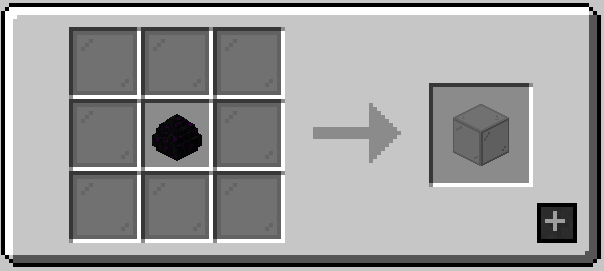
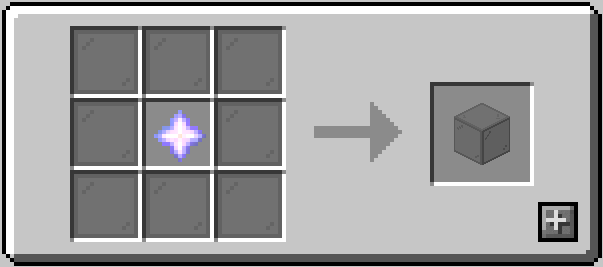
Dragon Egg replaced with Nether Star - Done to make entry point more accessible on servers without repeatable dragon eggs

diff --git a/src/main/java/io/github/sefiraat/danktech/finals/Recipes.java b/src/main/java/io/github/sefiraat/danktech/finals/Recipes.java
@@ -101,7 +101,7 @@ public final class Recipes {
         ShapedRecipe r = new ShapedRecipe(key, i);
         r.shape("NNN","NEN","NNN");
         r.setIngredient('N', Materials.getDankCellMaterial(1));
-        r.setIngredient('E', Material.DRAGON_EGG);
+        r.setIngredient('E', Material.NETHER_STAR);
         return r;
     }
 
